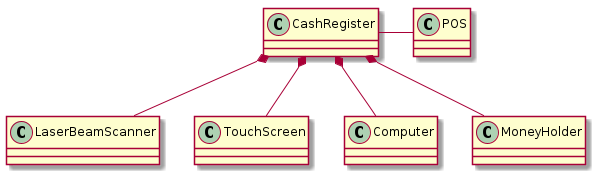
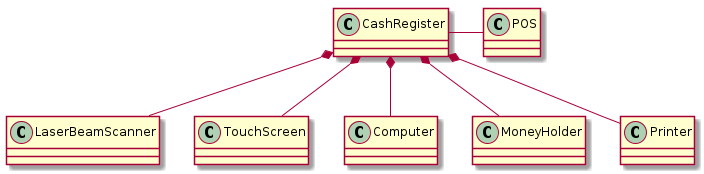
doc: added todo, revisoned RequirementDocument.md

diff --git a/Deliverables/RequirementsDocument.md b/Deliverables/RequirementsDocument.md
@@ -51,7 +51,7 @@ EZShop is a software application to:
 |	Inventory		| List of available product in the shop	that can be contained into a database|
 |	Supplier		| Person who sell the products to the shop manager			|
 |	POS system		| System that manages credit cards payments from customers|
-|	User			| Person that will use the EZShop application which has one or many roles in the shop |
+|	Anonymous User			| Person that will use the EZShop application which has one or many roles in the shop |
 |	Fidelity card	| Card given to a customer in order to receive some discounts |
 <br>
 
@@ -66,12 +66,16 @@ EZShop is a software application to:
 		usecase EZShop
 		}
 		' actors
-		''' actor :Shop manager: as sm
-		''' actor :Cashier: as cr
-		''' actor :Accounting manager: as am
-		''' actor :Warehouse manager: as wm
+		actor :Shop manager: as sm
+		actor :Cashier: as cr
+		actor :Accounting manager: as am
+		actor :Warehouse manager: as wm
 		' variant with single end user which has roles
-		actor :User: as u
+		actor :Anonymous User: as u
+		sm --|> u
+		cr -|> u
+		am --|> u
+		u <|-- wm
 
 		actor :Supplier: as s
 		actor :POS system: as ccs
@@ -81,7 +85,7 @@ EZShop is a software application to:
 		''' am --> EZShop
 		''' wm --> EZShop		
 		' variant with only end user
-		u --> EZShop
+		u -> EZShop
 
 		s <- EZShop
 		EZShop <-- ccs
@@ -104,11 +108,13 @@ EZShop is a software application to:
 |	Supplier		| Purchase order file	| Email on the network containing as attachment the order	|
 |	POS system| ECR interface described at <a href="https://www.ccv.eu/wp-content/uploads/2018/05/zvt_ecr_interface_specification.pdf" >ECR</a>| Wired connection|
 |	Fidelity card	| Barcode	| Laser beam scanner|
+|	User			| GUI		| Screen, keyboard, mouse	|
+<!--
 |   Shop Manager    | GUI 		| Screen, keyboard, mouse  	|
 |	Cashier			| GUI 		| Screen, keyboard, mouse?	|
 |	Accounting manager| GUI		| Screen, keyboard, mouse	|
 |	Warehouse manager| GUI		| Screen, keyboard, mouse	|
-	|	User			| GUI		| Screen, keyboard, mouse	|
+-->
 <!-- If lase beam scanner and cash register are internal-->
 <!-- |Product| Barcode| Laser beam scanner|-->
 <!-- If cash register and laser beam scanner are external-->
@@ -160,7 +166,7 @@ Giovanni is 45, he helps the manager of a small food shop in managing the accoun
 | FR3.2	| Remove a previous sale|
 | FR3.3	| Manage payment with credit card|
 | FR3.4	| Compute sale ticket|
-| ??? FR3.5	|	Manage replacement (remove a previous sale and use the credit to buy a new item)	
+| FR3.5	| Manage sale with fidelity card|	
 | FR4	| Manage accounting|
 | FR4.1	| See all invoices|
 | FR4.2	| Get current balance|
@@ -312,7 +318,7 @@ The following table indicates which actor have the rights to perform functional 
 
 ### Use case 1, UC1 - Manage inventory
 
-| Actors Involved        | Warehouse manager (?? User ??) |
+| Actors Involved        | (??1 Warehouse manager 1??) (?? User ??) |
 | ------------- |:-------------:| 
 |  Precondition     | User is authenticated|
 |	| User has role warehouse manager | 
@@ -378,7 +384,7 @@ The following table indicates which actor have the rights to perform functional 
 
 ### Use case 2, UC2 - Manage catalogue
 
-| Actors Involved        | Warehouse manager (?? User ??)|
+| Actors Involved        | (??! Warehouse manager 1??) (?? User ??)|
 | ------------- |:-------------:| 
 |  Precondition     | User is authenticated|
 |	| User has role warehouse manager | 
@@ -428,7 +434,7 @@ The following table indicates which actor have the rights to perform functional 
 
 ### Use case 3, UC3 - Manage sales 
 
-| Actors Involved        | Cashier (?? User ??), POS System, Fidelity card (??? Laser beam scanner, cash register / Product ???) |
+| Actors Involved        | (??1 Cashier 1??) (?? User ??), POS System, Fidelity card (??? Laser beam scanner, cash register / Product ???) |
 | ------------- |:-------------:| 
 |  Precondition     | User is authenticated|
 |	| User has role cashier | 
@@ -489,7 +495,7 @@ The following table indicates which actor have the rights to perform functional 
 
 ### Use case 4, UC4 - Manage accounting
 
-| Actors Involved        | Accounting manager (?? User ??)|
+| Actors Involved        | (??1 Accounting manager 1??) (?? User ??)|
 | ------------- |:-------------:| 
 |  Precondition     | User is authenticated|
 |	| User has role Accounting manager | 
@@ -507,7 +513,7 @@ The following table indicates which actor have the rights to perform functional 
 |	1	| Read data of the invoice (total amount, due date,...)|
 |	2	| Set the invoice status to "Not payed"|
 |	3	| Insert the read invoice to the list|
-|	3	| update the balance adding total amount to due expense|
+|	4	| update the balance adding total amount to due expense|
 
 #### Scenario 4.2 - Set invoice as payed
 | Scenario 4.2 | Set invoice as payed|
@@ -544,7 +550,7 @@ The following table indicates which actor have the rights to perform functional 
 |	9	| Store report|
 ### Use case 5, UC5 - Manage customers
 
-| Actors Involved        | Cashier (?? User ??) |
+| Actors Involved        | (??1 Cashier 1??) (?? User ??) |
 | ------------- |:-------------:| 
 |  Precondition     | User is authenticated|
 |	| User has role Cashier | 
@@ -606,7 +612,7 @@ The following table indicates which actor have the rights to perform functional 
 
 ### Use case 7, UC7 - Manage suppliers
 
-| Actors Involved        | Shop manager (?? User ??) |
+| Actors Involved        | (??1 Shop manager 1??) (?? User ??) |
 | ------------- |:-------------:| 
 |  Precondition     | User is authenticated |
 |	| User role is Shop manager|
@@ -616,7 +622,7 @@ The following table indicates which actor have the rights to perform functional 
 
 ### Use case 8, UC8 - Manage orders
 
-| Actors Involved        | Shop manager (?? User ??), Supplier |
+| Actors Involved        | (??1 Shop manager 1??) (?? User ??), Supplier |
 | ------------- |:-------------:| 
 |  Precondition     | User is authenticated |
 |	| User role is Shop manager|
@@ -665,7 +671,7 @@ The following table indicates which actor have the rights to perform functional 
 		class Inventory{
 		}
 		class Catalogue
-		note top of Catalogue: Contains all product \ntypes sold in the shop 
+		note top of Catalogue: Contains all product \ntypes sold in the shop \nproduct types are from 500 to 2000
 		note right of User: Represent all people working \nin the shop including the \nmanager
 		class User{
 			name
@@ -751,9 +757,11 @@ The following table indicates which actor have the rights to perform functional 
 		CashRegister -- Sale: registers >
 		WarehouseManager -- Inventory: manages >
 		' balance
-		Balance -- Sale
-		Balance -- Invoice
+		Balance -- "*"Sale
+		Balance -- "*"Invoice
 		AccountingManager -- Balance: manages >
+
+		' CashRegister -- Pos
 	@enduml
 </div>
 <br>
@@ -775,6 +783,7 @@ Not applicable since this is a software only product.
 		CashRegister *-- TouchScreen
 		CashRegister *-- Computer
 		CashRegister *-- MoneyHolder
+		CashRegister *-- Printer
 		CashRegister - POS
 	@enduml
 </div>

diff --git a/Deliverables/TimeSheet.md b/Deliverables/TimeSheet.md
@@ -10,7 +10,7 @@ These figures will not be used to evaluate neither the project nor the team, the
 
 | Week | requirement engineering | design | coding | unit testing | integration testing | acceptance testing | management | git maven |
 |:-----------:|:--------:|:-----------:|:-----------:|:----------:|:------------:|:---------------:|:-------------:|:--------------:|
-| apr 5 - 11 | | | | | | | | |
+| apr 5 - 11 | 13.5| | | | | | 2| 1|
 | apr 12 - 18| | | | | | | | | 
 | apr 19 - 25| | | | | | | | | 
 | apr 26 - 2 | | | | | | | | | 

diff --git a/Deliverables/Todo.md b/Deliverables/Todo.md
@@ -1,0 +1,16 @@
+# Todo
+## pagine GUI
+
+### login   matteo
+### home??? michele
+### interfaccia warehouse   valeria
+#### catalogo   samuele
+#### inventario matteo
+### interfaccia accounting  michele
+(
+    #### interfaccia fatture
+    #### interfaccia scontrini
+)
+### interfaccia cash register   valeria
+
+### interfaccia shop manager    samuele
